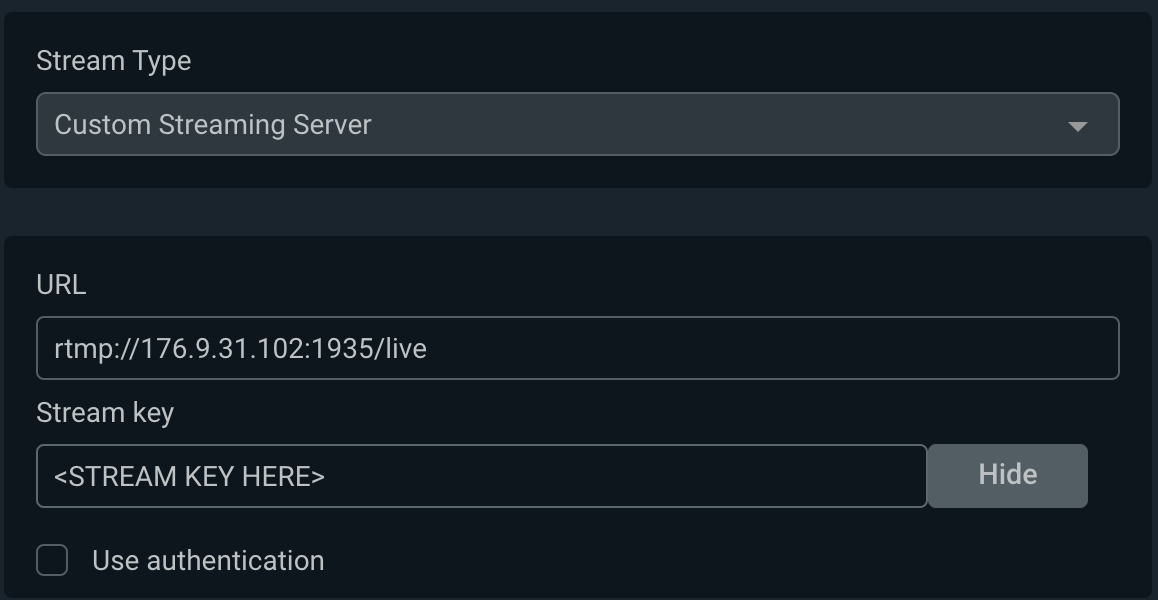
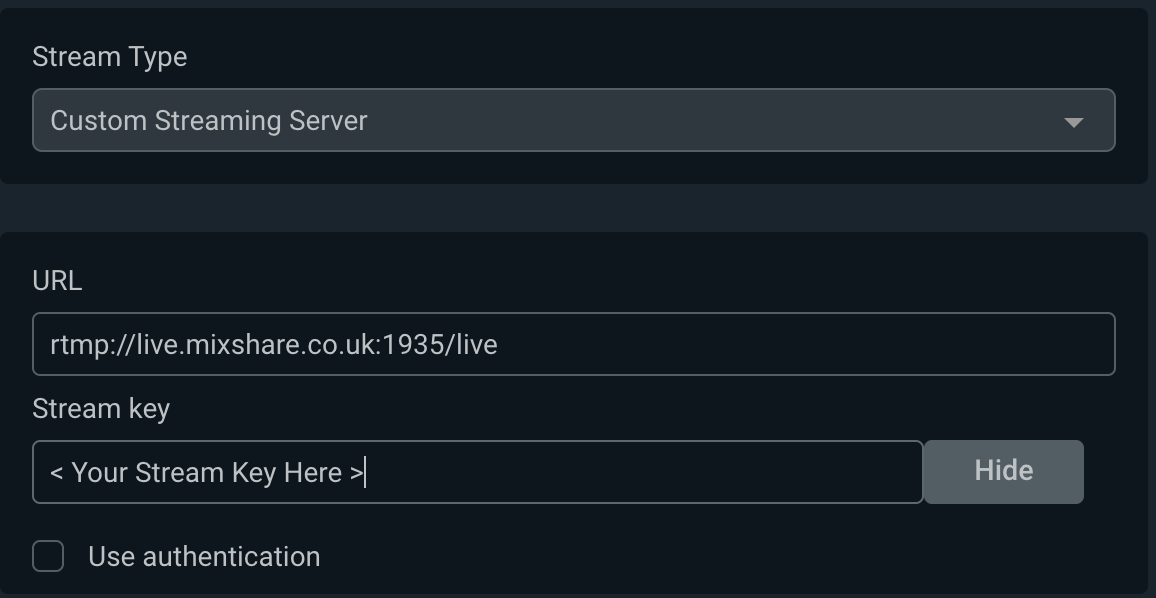
- CSS Changes

diff --git a/client/components/VideoPlayer.js b/client/components/VideoPlayer.js
@@ -6,7 +6,9 @@ import '../styles/VideoPlayer.scss';
 import Chatbox from './chatbox';
 import watermark from 'videojs-watermark';
 import '../../node_modules/videojs-watermark/dist/videojs-watermark.css';
-
+import Upcoming from '../pages/Upcoming';
+import { faCircle } from "@fortawesome/free-solid-svg-icons";
+import { FontAwesomeIcon } from "@fortawesome/react-fontawesome";
 export default class VideoPlayer extends React.Component {
 
     constructor(props) {
@@ -33,7 +35,7 @@ export default class VideoPlayer extends React.Component {
                 videoJsOptions: {
                     plugins: {
                         watermark: {
-                            image: 'https://ktinternet.net/radio-logos/logo.png',
+                            image: 'https://ktinternet.net/radio-logos/video_logo.png',
                             position: 'top-left',
                             hideOnReady: true,
                             fadeTime: 10000,
@@ -81,7 +83,7 @@ export default class VideoPlayer extends React.Component {
                                 </div>
                             </div>
                         ) : ' Loading ... '}
-                        <div className="titleVid">
+                        <div className="titleVid"><FontAwesomeIcon className="icon-flash" icon={faCircle} size={24} />
                             {this.props.match.params.username} Live
                 </div>
                     </div>
@@ -89,7 +91,7 @@ export default class VideoPlayer extends React.Component {
                         <Chatbox />
                     </div>
                 </div>
-                {/* <Upcoming /> */}
+                <Upcoming />
             </div>
 
 

diff --git a/client/styles/VideoPlayer.scss b/client/styles/VideoPlayer.scss
@@ -1,12 +1,4 @@
-.titleVid {
-    text-align: center;
-    font-size: 20px;
-    font-weight: 500;
-    color: #fff;
-    padding: 5px;
-   text-transform: uppercase;
-  width: 100%;
-  }
+
   .centerStyle {
     margin-top: 5px;
     font-size: 20px;
@@ -61,4 +53,32 @@
   height: 800px;
   border: 6px double rgba(131, 131, 131, 0.105);
   padding: 10px;
+}
+.titleVid {
+  position: relative;
+  margin-top: 5px;
+  text-align: left;
+  font-size: 20px;
+  font-weight: 500;
+  color: #fff;
+  // padding: 5px;
+ text-transform: uppercase;
+width: 100%;
+}
+.icon-flash {
+  margin-right: 5px;
+  color:red;
+  font-size: 20px;
+  -webkit-animation: flash linear 1s infinite;
+animation: flash linear 2s infinite;
+}
+@-webkit-keyframes flash {
+  0% { opacity: 1; } 
+  50% { opacity: .1; } 
+  100% { opacity: 1; }
+}
+@keyframes flash {
+  0% { opacity: 1; } 
+  50% { opacity: .1; } 
+  100% { opacity: 1; }
 }

diff --git a/client/pages/Settings.js b/client/pages/Settings.js
@@ -76,7 +76,7 @@ export default class Navbar extends React.Component {
                                 You can use <a target="_blank" href="https://obsproject.com/">OBS</a> or
                                 <a target="_blank" href="https://www.xsplit.com/">XSplit</a> to Live stream. If you're
                                 using OBS, go to Settings - Stream and select Custom from service dropdown.
-                                Enter <b>rtmp://176.9.31.102:1935/live</b> in server input field. Also, add your stream key.
+                                Enter <b>rtmp://live.mixshare.co.uk:1935/live</b> in server input field. Also, add your stream key.
                                 Click apply to save.
                             </p>
                             <img src={obsconfig} class="w-75 h-75 " alt="..."></img>

diff --git a/client/components/Navbar.js b/client/components/Navbar.js
@@ -41,7 +41,7 @@ export default class Navbar extends React.Component {
         return (
 
             <nav className="navbar navbar-expand-s navbar-dark bg-dark sticky-top">
-                <div className="container">
+                <div className="container-fluid">
 
                     <Link to={'/'} className={'navbar-brand headerFont'} >
                         <img src={logo} alt="" width="40" height="40" class="d-inline-block align-center rounded mr-2" />

diff --git a/client/components/chatbox.js b/client/components/chatbox.js
@@ -5,7 +5,7 @@ export class Chatbox extends Component {
 
     render() {
         return (
-            <div className="col-xs-12 col-sm-12 col-md-10 col-lg-8 mx-auto mt-5">
+            <div className="mx-auto">
                 <div className="bg-success m-2 p-4 text-light">
                     <h4 className="text-center">Chat Box coming soon....</h4>
                 </div>

diff --git a/client/styles/index.scss b/client/styles/index.scss
@@ -24,6 +24,11 @@ html,body{
   justify-content: center;
   text-align: center;
 }
+@media screen and (max-width: 768px) {
+  .mainBannerText {
+    font-size: 2.2em;
+  }
+}
 .mainLogoText {
   font-family: "Poppins";
   font-weight: 900;

diff --git a/client/styles/NavBar.scss b/client/styles/NavBar.scss
@@ -20,6 +20,6 @@ font-size: 2.3rem !important;
     .headerFont{
         font-family: 'Poppins' !important;
         font-weight: 700;
-        font-size: 1.2rem !important;
+        font-size: 1.7rem !important;
         }
   }
